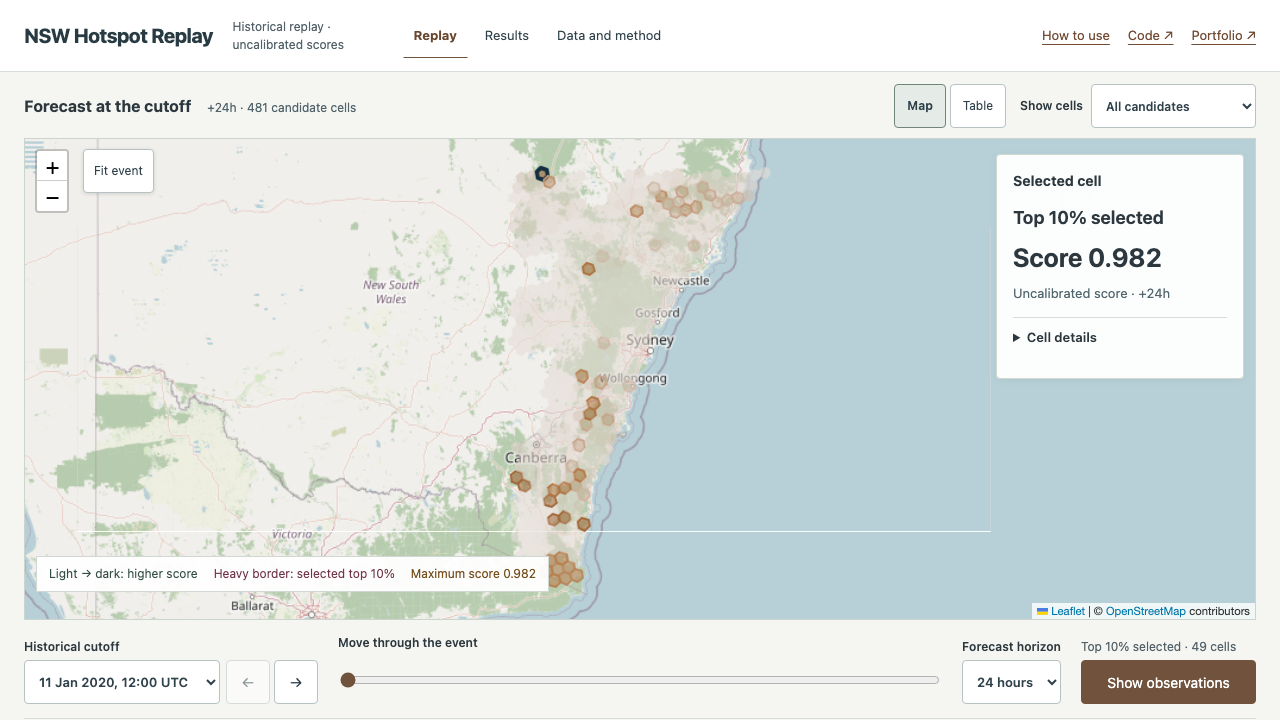
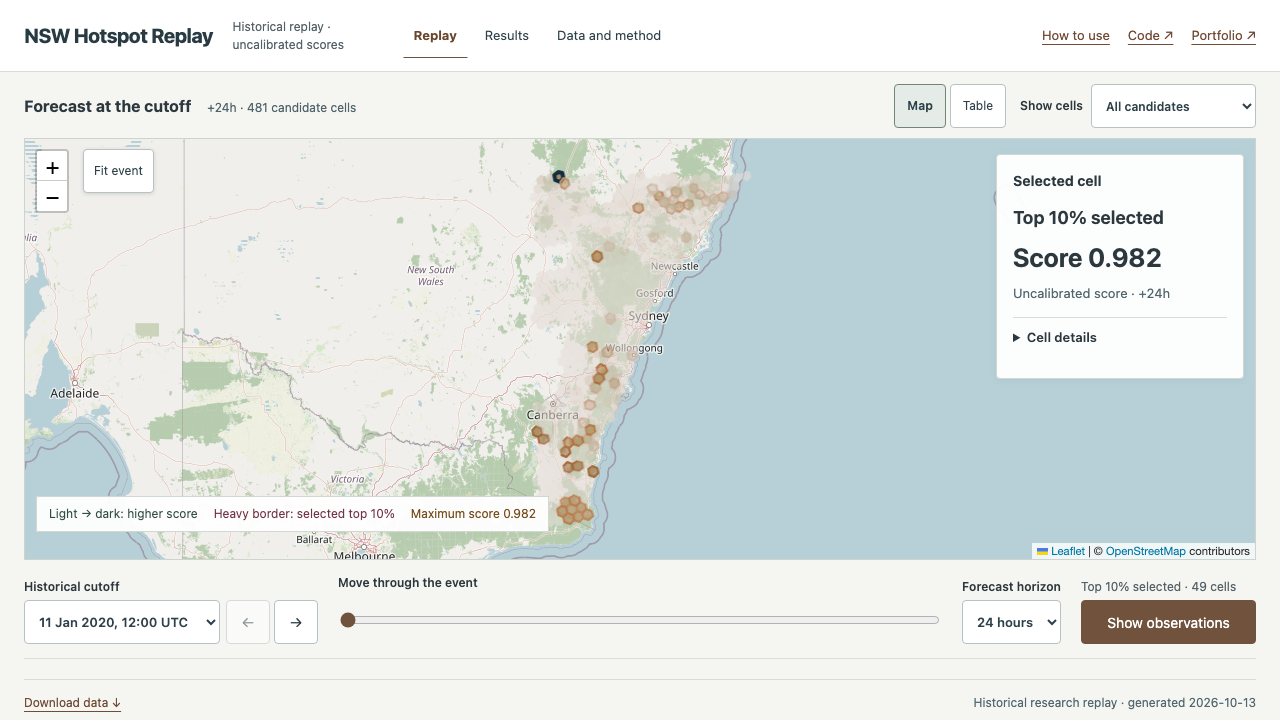
Preserve basemap tiles across reveal and presentation changes

diff --git a/frontend/src/styles/app.css b/frontend/src/styles/app.css
@@ -51,8 +51,7 @@ input[type=range] { accent-color:#71533d; min-height:44px; }
 .surface-switch button[aria-pressed=true] { background:#e5ebe6; border-color:#718579; font-weight:650; }
 .map-display { position:relative; grid-column:1/-1; }
 .map-wrap { position:relative; border:1px solid #cbd4cd; background:#e8ece5; }
-.forecast-map { height:max(420px,calc(100svh - 240px)); z-index:0; }
-.replay-layout:has(.outcome-summary) .forecast-map { height:max(380px,calc(100svh - 300px)); }
+.forecast-map { height:max(420px,calc(100svh - 300px)); z-index:0; }
 .leaflet-container { font-family:system-ui,sans-serif; }
 .leaflet-tile-pane { filter:saturate(.6); }
 .fit-event { position:absolute; top:10px; left:58px; z-index:1; box-shadow:0 1px 4px #0002; font-size:12px; }
@@ -131,8 +130,7 @@ footer { border-top:1px solid var(--line); padding-top:14px; margin-top:20px; di
  header .views { order:4; }
  .timeline { gap:10px; flex-wrap:wrap; }
  .timeline-range { min-width:180px; }
- .forecast-map { height:max(420px,calc(100svh - 340px)); }
- .replay-layout:has(.outcome-summary) .forecast-map { height:max(380px,calc(100svh - 400px)); }
+ .forecast-map { height:max(380px,calc(100svh - 400px)); }
  .map-heading { display:block; }
  .map-heading span { display:block; margin-top:4px; }
 }

diff --git a/frontend/src/components/ForecastMap.tsx b/frontend/src/components/ForecastMap.tsx
@@ -66,12 +66,22 @@ export function ForecastMap({
       .on("tileerror", () => setTilesMissing(true))
       .addTo(instance);
     layer.current = L.layerGroup().addTo(instance);
+    let previousSize = "";
     const observer = new ResizeObserver(() => {
       if (!div.current?.clientWidth || !div.current?.clientHeight) return;
+      const size = `${div.current.clientWidth}:${div.current.clientHeight}`;
+      // Hidden presentations return to the same map, without resetting its tiles.
+      if (size === previousSize) return;
+      previousSize = size;
       const center = instance.getCenter(), zoom = instance.getZoom();
       instance.invalidateSize({ pan: false });
       if (needsFit.current) fitEvent();
-      else instance.setView(center, zoom, { animate: false, reset: true });
+      else {
+        // Leaflet supports reset in setView; its ZoomPanOptions type omits it.
+        // A full size reset preserves the exact centre, avoiding rounded panning.
+        const options: L.ZoomPanOptions & { reset: boolean } = { animate: false, reset: true };
+        instance.setView(center, zoom, options);
+      }
     });
     observer.observe(div.current);
     return () => {
